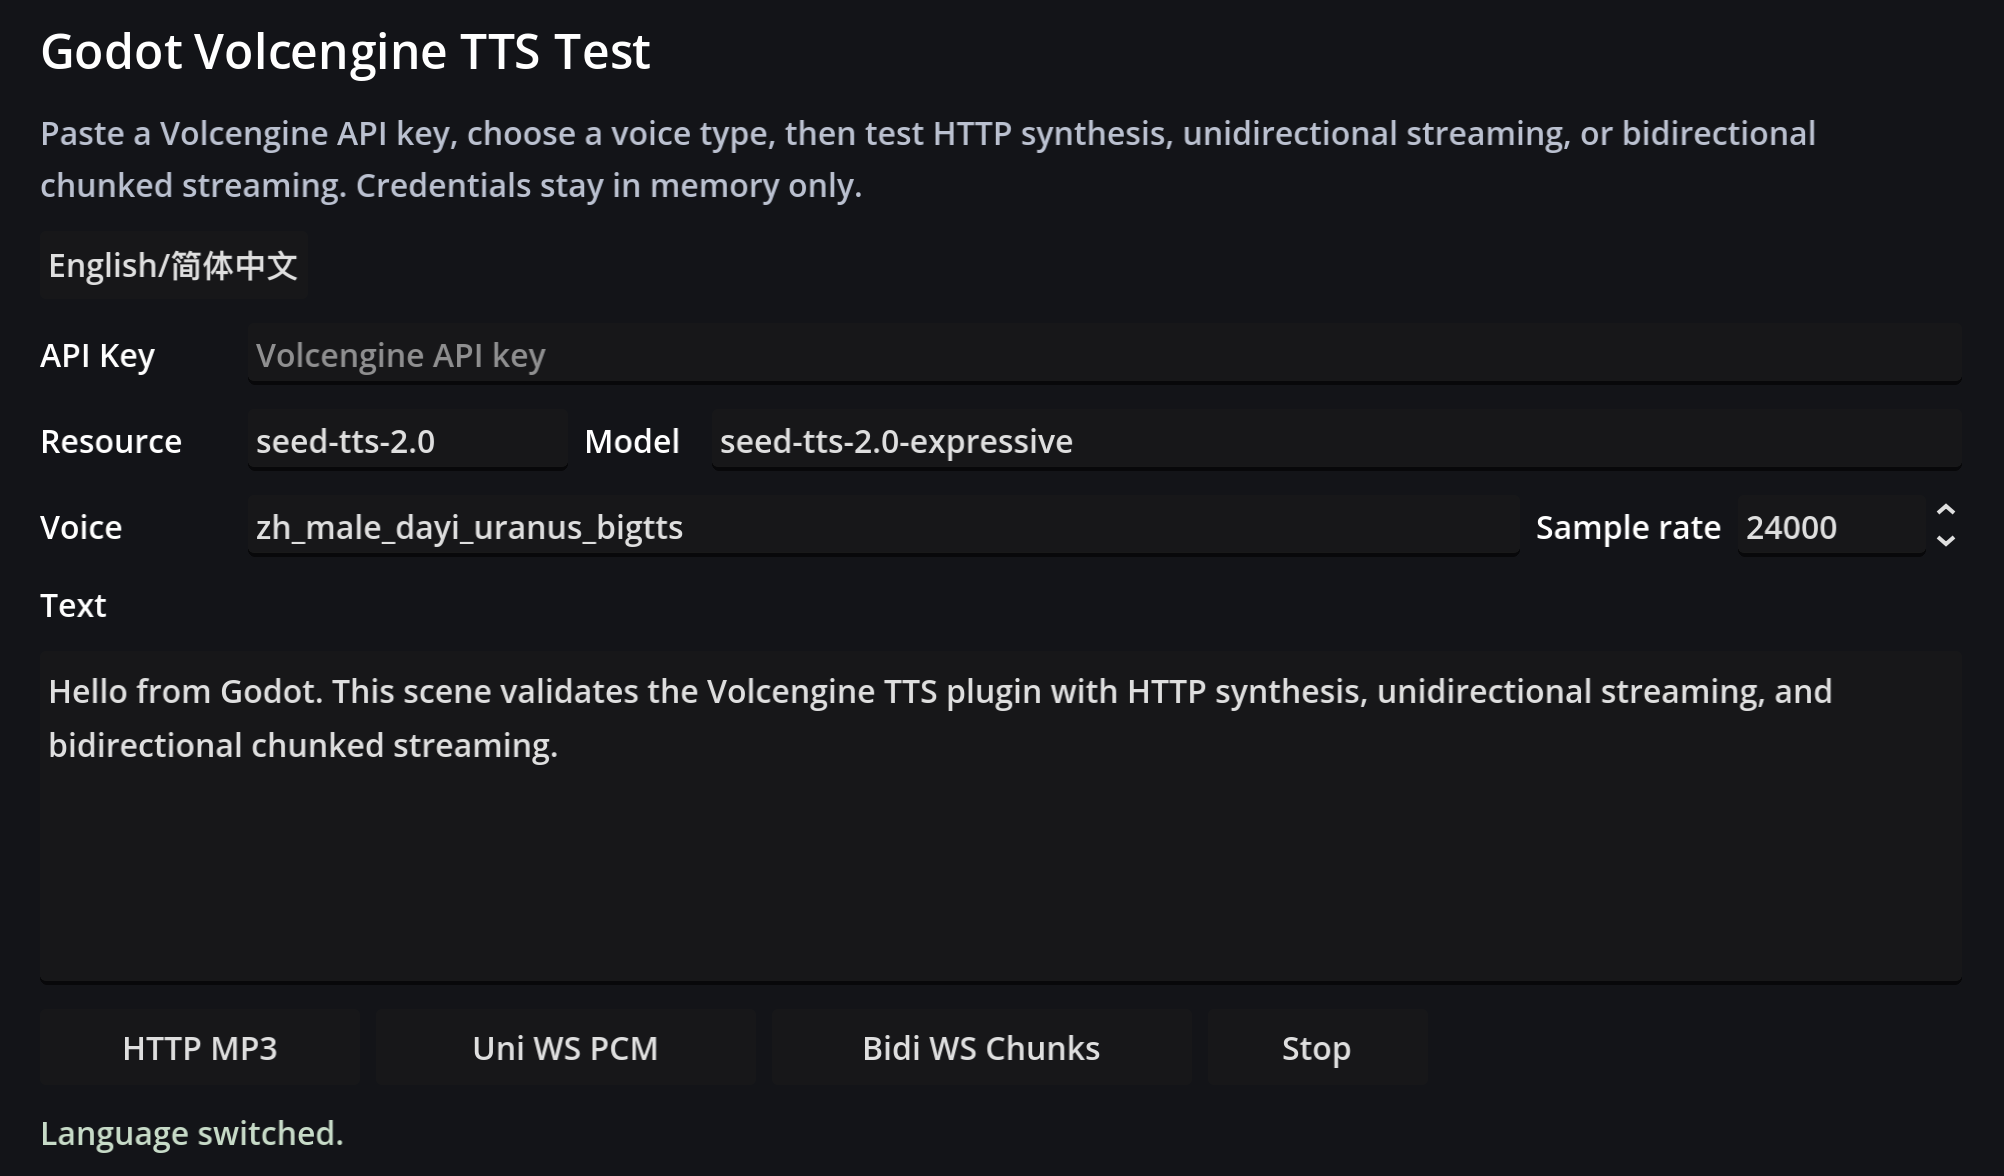
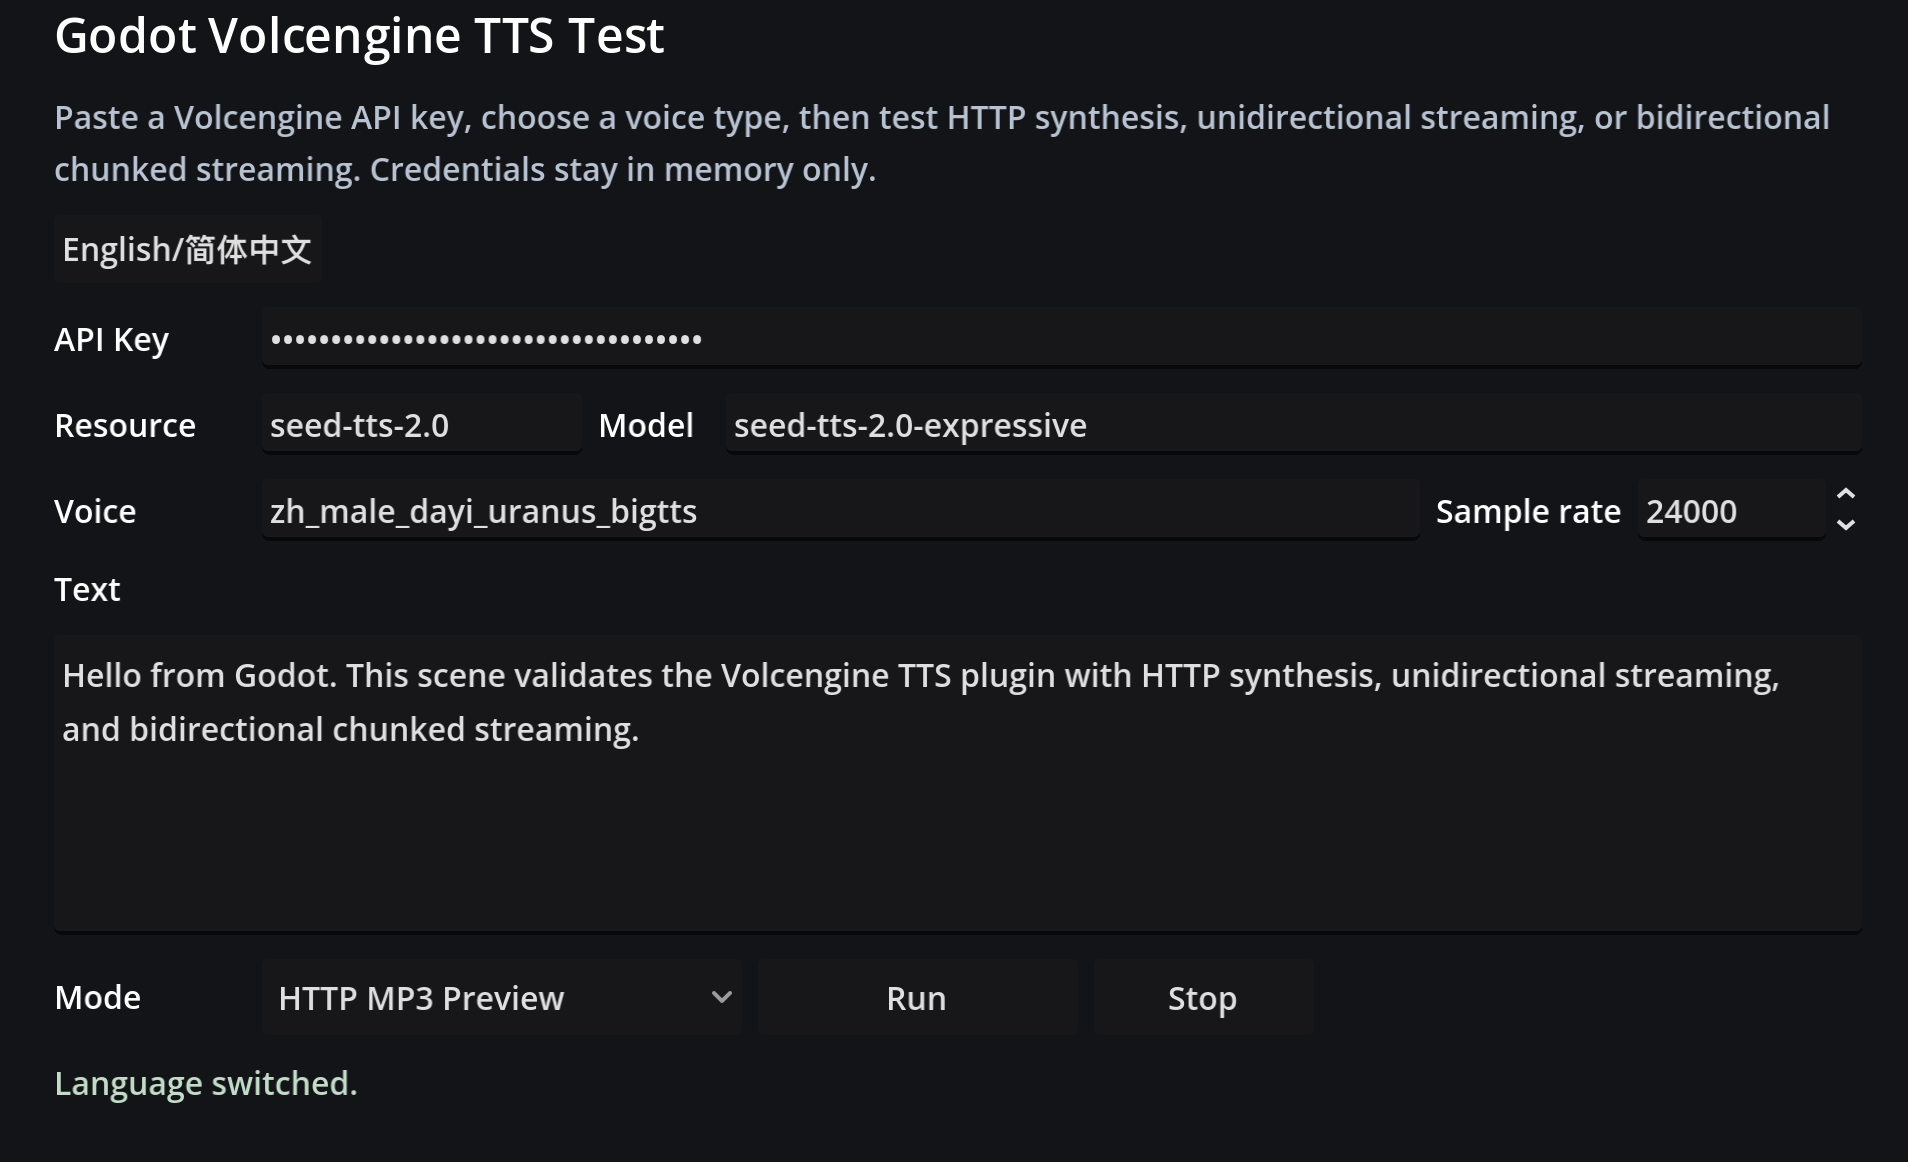
docs: 完善文档

diff --git a/README.md b/README.md
@@ -1,27 +1,47 @@
 <div align="right">
-  [<a href="./README.md">English</a>] [<a href="./README_CN.md">简体中文</a>]
+  [<a href="./README.md">English</a>] [<a href="./README.zh-CN.md">简体中文</a>]
 </div>
 
 <div align="center">
   <img src="./docs/images/icon-256.png" alt="Godot Volcengine TTS logo" height="96">
   <h1>Godot Volcengine TTS</h1>
-  <p>Stream and generate Volcengine Doubao TTS audio directly inside Godot 4.</p>
+  <p>Stream, generate, and pre-save Volcengine Doubao TTS audio directly inside Godot 4.4+.</p>
 </div>
 
-Godot Volcengine TTS is an unofficial Godot 4 addon for integrating Volcengine
-Doubao text-to-speech into games and interactive projects. It provides a
-high-level playback node plus lower-level clients for bidirectional WebSocket
-streaming, unidirectional streaming, and HTTP synthesis, so you can use the same
-addon for live character dialogue, LLM-generated speech, UI prompts, cutscenes,
-and cached voice lines.
+Godot Volcengine TTS is a third-party SDK for using Volcengine speech synthesis
+models from Godot 4.4+. It wraps the public Volcengine speech synthesis APIs for
+Godot games and interactive projects.
 
-The addon was originally extracted from a tactics RPG project that needed
-low-latency voiced dialogue and pre-generated narration.
+The project provides a high-level playback node plus lower-level clients for
+bidirectional WebSocket streaming, unidirectional streaming, and HTTP synthesis.
+You can use the same addon for live character dialogue, LLM-generated speech,
+UI prompts, cutscenes, and cached voice lines.
+
+The included test scene also supports saving synthesized audio to local files.
+Clone the project, open it with Godot, and you can test the API directly or
+pre-generate voice lines for your game to reduce unnecessary runtime synthesis
+costs.
+
+The project was originally a byproduct of a tactics RPG, where it was used to
+synthesize dialogue generated by an LLM in real time.
+
+## Recommendation
+
+Because real-time synthesis can be costly, use it mainly for small amounts of
+dynamic text, such as character lines generated by an LLM. For static dialogue,
+UI copy, narration, and other fixed text, pre-generate and cache audio during
+development whenever possible.
 
 Detailed plugin documentation:
 
 - [English addon README](addons/godot_volcengine_tts/README.md)
 - [中文插件文档](addons/godot_volcengine_tts/README.zh-CN.md)
+
+The detailed documentation is intentionally kept inside
+`addons/godot_volcengine_tts/`. The Asset Library export only ships the `addons/`
+directory, so users who install the addon still receive the usage and protocol
+notes. Keeping the docs next to the scripts also makes them easy for coding
+agents and IDE assistants to discover when maintaining or integrating the addon.
 
 ## Features
 
@@ -39,6 +59,13 @@ one session, feeds the full text once, sends `FinishSession`, and plays the PCM
 audio chunks as they arrive. The official unidirectional streaming endpoint is
 still implemented, but it is exposed as the lower-level
 `voice.uni_client.synthesize_streaming(...)` API.
+
+This design is intentional for maintainability. The playback path and the true
+LLM token-streaming path share the same bidirectional session lifecycle,
+session-id filtering, cancellation behavior, PCM queue, and backpressure logic.
+The official unidirectional streaming client remains available for callers who
+need that specific endpoint, especially for SSML streaming or custom byte
+handling.
 
 ## Installation
 
@@ -122,6 +149,14 @@ The test scene intentionally exercises both layers: the HTTP button calls
 `voice.start_streaming()`, `voice.feed_text()`, and `voice.finish_streaming()`.
 
 ![Volcengine TTS test scene showing API, model, voice, text, HTTP, unidirectional streaming, bidirectional streaming, and stop controls](docs/images/screenshot_0.png)
+
+The test scene also includes a **Save Audio Locally** mode. It saves audio
+generated through HTTP synthesis directly to a selected directory, with support
+for filename templates, a current index, and automatic index increment after
+each save. This is intended for pre-generating fixed voice lines during game
+development.
+
+![Volcengine TTS test scene save mode showing output directory, filename template, index, and auto-increment controls](docs/images/screenshot_1.png)
 
 The scene is for repository testing only and is excluded from Asset Library
 downloads.

diff --git a/addons/godot_volcengine_tts/README.md b/addons/godot_volcengine_tts/README.md
@@ -28,6 +28,14 @@ PCM bytes into `AudioStreamGenerator`. The real official unidirectional
 streaming endpoint is implemented separately as
 `voice.uni_client.synthesize_streaming(...)`.
 
+This is a deliberate maintenance tradeoff. `speak()` and true LLM
+token-streaming can share the same bidirectional session lifecycle, session-id
+filtering, stale-signal protection, cancellation semantics, PCM queue, and
+backpressure playback path. Keeping one high-level playback pipeline reduces
+the chance that stop/reentry/playback behavior diverges between "one-shot" and
+"token-streaming" modes. The unidirectional client remains available as a
+lower-level API for SSML streaming and custom chunk handling.
+
 Volcengine updates available voices over time. Check the official voice list
 before choosing a `voice_type`:
 
@@ -62,6 +70,70 @@ func _ready() -> void:
 
 	await voice.speak("Hello from Godot.", "zh_male_dayi_uranus_bigtts")
 ```
+
+## Configuration
+
+Most projects only need to set `api_key`, `resource_id`, and optionally
+`default_model` on the clients they use:
+
+```gdscript
+for client in [voice.bidi_client, voice.uni_client, voice.http_client]:
+	client.api_key = "your-volcengine-api-key"
+	client.resource_id = "seed-tts-2.0"
+	client.user_uid = "player-or-device-id"
+	client.default_model = "seed-tts-2.0-expressive"
+```
+
+You can also override the host or API path. This is useful for private gateways,
+reverse proxies, compatible endpoints, or future Volcengine path changes:
+
+```gdscript
+voice.bidi_client.base_url = "openspeech.bytedance.com"
+voice.bidi_client.path = "/api/v3/tts/bidirection"
+
+voice.uni_client.base_url = "your-gateway.example.com"
+voice.uni_client.path = "/api/v3/tts/unidirectional/stream"
+
+voice.http_client.base_url = "your-gateway.example.com"
+voice.http_client.path = "/api/v3/tts/unidirectional"
+```
+
+`base_url` is the host only. Do not include `https://`, `wss://`, or a trailing
+path. The clients add the protocol themselves: WebSocket clients use `wss://`,
+and the HTTP client connects with TLS on port 443.
+
+Other useful runtime knobs:
+
+| Property | Owner | Default | Notes |
+|---|---|---|---|
+| `audio_bus` | `VolcengineStreamingVoicePlayer` | `&"Master"` | Godot audio bus for high-level playback |
+| `sample_rate` | `VolcengineStreamingVoicePlayer` | `24000` | Default PCM playback sample rate for `speak()` and `start_streaming()` |
+| `buffer_length` | `VolcengineStreamingVoicePlayer` | `0.5` | `AudioStreamGenerator` buffer length |
+| `auto_context_chain` | `VolcengineStreamingVoicePlayer` | `false` | Reuses the previous session id as `section_id` |
+| `connect_timeout_msec` | all clients | `8000` | WebSocket/HTTP connection timeout |
+| `session_timeout_msec` | WS clients | `20000` | Inactivity timeout while waiting for WS packets |
+| `read_timeout_msec` | HTTP client | `30000` | Inactivity timeout while reading HTTP chunks |
+
+## API Quick Reference
+
+| API | Endpoint | Result |
+|---|---|---|
+| `voice.speak(text, voice_id, opts)` | Bidirectional WS | Plays streamed PCM; returns `true` on natural completion |
+| `voice.start_streaming(voice_id, opts)` / `feed_text(chunk)` / `finish_streaming()` | Bidirectional WS | Plays streamed PCM from incremental text |
+| `voice.fetch_audio(text, voice_id, opts)` | HTTP chunked | Returns complete audio bytes |
+| `voice.uni_client.synthesize_streaming(text, voice_id, on_chunk, opts, out_session)` | Unidirectional WS | Calls `on_chunk` for every streamed audio chunk |
+| `voice.stop()` | Active high-level playback | Cancels playback and wakes waiters with `false` |
+| `voice.current_session_id()` | High-level player | Returns the last completed bidirectional session id |
+
+Signals:
+
+- `voice.speak_finished`: emitted when high-level playback ends, fails, or is
+  stopped.
+- `voice.bidi_client.audio_chunk_received(session_id, chunk)`: lower-level
+  bidirectional audio event.
+- `voice.bidi_client.session_finished(session_id)` and
+  `voice.bidi_client.session_failed(session_id, reason)`: lower-level
+  bidirectional completion events.
 
 ## Use Case A: One-Shot Streaming Playback
 

diff --git a/addons/godot_volcengine_tts/README.zh-CN.md b/addons/godot_volcengine_tts/README.zh-CN.md
@@ -24,6 +24,12 @@ Godot 播放能力。
 PCM 字节流送入 `AudioStreamGenerator` 播放。真正的官方单向流式端点也已实现，
 但作为低层 API 暴露：`voice.uni_client.synthesize_streaming(...)`。
 
+这是一个有意选择的维护取舍。`speak()` 和真正的 LLM token streaming 可以共享同一套
+双向 session 生命周期、session_id 过滤、陈旧信号保护、取消语义、PCM 队列和背压播放路径。
+高层只保留一套播放管线，可以降低“单句播放”和“分段流式”在 stop、重入和播放收尾行为上
+出现分叉的概率。单向流式 client 仍作为低层 API 保留，用于 SSML 流式返回和自定义 chunk
+处理。
+
 音色列表以火山引擎官方文档为准：
 
 https://www.volcengine.com/docs/6561/1257544
@@ -56,6 +62,66 @@ func _ready() -> void:
 
 	await voice.speak("你好，世界。", "zh_male_dayi_uranus_bigtts")
 ```
+
+## 配置
+
+大多数项目只需要给实际使用的 client 设置 `api_key`、`resource_id`，以及可选的
+`default_model`：
+
+```gdscript
+for client in [voice.bidi_client, voice.uni_client, voice.http_client]:
+	client.api_key = "your-volcengine-api-key"
+	client.resource_id = "seed-tts-2.0"
+	client.user_uid = "player-or-device-id"
+	client.default_model = "seed-tts-2.0-expressive"
+```
+
+也可以自行覆盖 host 或 API path。这个能力适合私有网关、反向代理、兼容端点，或火山后续
+调整路径时使用：
+
+```gdscript
+voice.bidi_client.base_url = "openspeech.bytedance.com"
+voice.bidi_client.path = "/api/v3/tts/bidirection"
+
+voice.uni_client.base_url = "your-gateway.example.com"
+voice.uni_client.path = "/api/v3/tts/unidirectional/stream"
+
+voice.http_client.base_url = "your-gateway.example.com"
+voice.http_client.path = "/api/v3/tts/unidirectional"
+```
+
+`base_url` 只填 host，不要带 `https://`、`wss://`，也不要带路径。各 client 会自己补协议：
+WebSocket client 使用 `wss://`，HTTP client 使用 443 端口 TLS 连接。
+
+其他常用运行时配置：
+
+| 属性 | 所属对象 | 默认值 | 说明 |
+|---|---|---|---|
+| `audio_bus` | `VolcengineStreamingVoicePlayer` | `&"Master"` | 高层播放使用的 Godot 音频总线 |
+| `sample_rate` | `VolcengineStreamingVoicePlayer` | `24000` | `speak()` / `start_streaming()` 默认 PCM 播放采样率 |
+| `buffer_length` | `VolcengineStreamingVoicePlayer` | `0.5` | `AudioStreamGenerator` 缓冲长度 |
+| `auto_context_chain` | `VolcengineStreamingVoicePlayer` | `false` | 自动把上一段 session id 作为下一段 `section_id` |
+| `connect_timeout_msec` | 所有 client | `8000` | WebSocket/HTTP 连接超时 |
+| `session_timeout_msec` | WS client | `20000` | 等待 WS 包的无活动超时 |
+| `read_timeout_msec` | HTTP client | `30000` | 读取 HTTP chunk 的无活动超时 |
+
+## API 速查
+
+| API | 端点 | 结果 |
+|---|---|---|
+| `voice.speak(text, voice_id, opts)` | 双向 WS | 流式播放 PCM；自然完成时返回 `true` |
+| `voice.start_streaming(voice_id, opts)` / `feed_text(chunk)` / `finish_streaming()` | 双向 WS | 播放增量文本生成的 PCM 流 |
+| `voice.fetch_audio(text, voice_id, opts)` | HTTP Chunked | 返回完整音频字节 |
+| `voice.uni_client.synthesize_streaming(text, voice_id, on_chunk, opts, out_session)` | 单向 WS | 每收到一个音频块就调用 `on_chunk` |
+| `voice.stop()` | 当前高层播放任务 | 中断播放，并让等待中的 `speak()` 返回 `false` |
+| `voice.current_session_id()` | 高层播放器 | 返回上一段自然完成的双向 session id |
+
+信号：
+
+- `voice.speak_finished`：高层播放自然结束、失败或被停止时都会发出。
+- `voice.bidi_client.audio_chunk_received(session_id, chunk)`：低层双向音频块事件。
+- `voice.bidi_client.session_finished(session_id)` 和
+  `voice.bidi_client.session_failed(session_id, reason)`：低层双向完成/失败事件。
 
 ## 用法 A：单句流式播放
 
